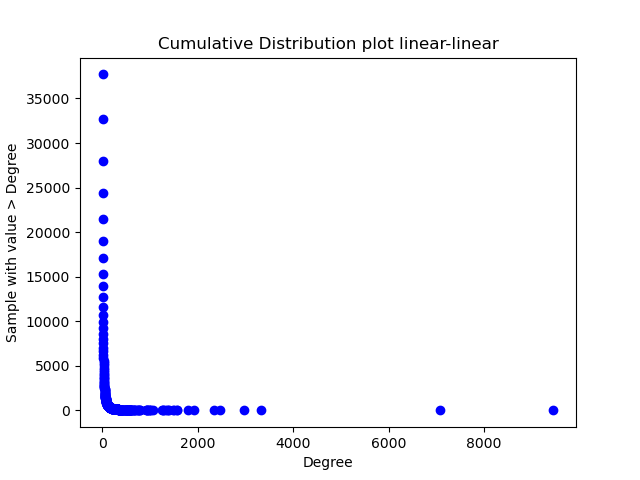
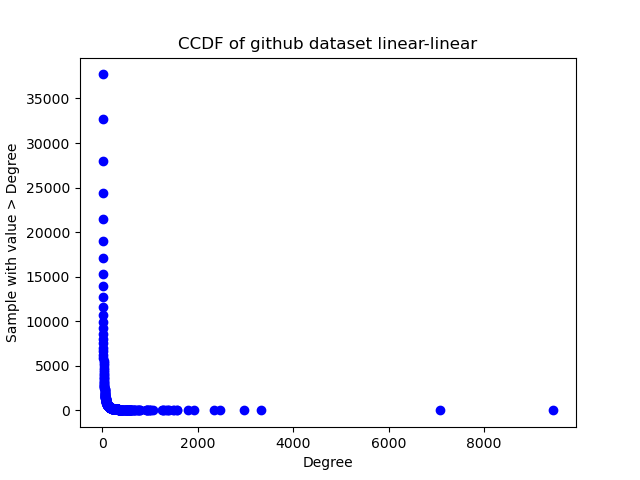
update problem 1 question c

Changed region(s): [[0.25, 0.0625, 0.7812, 0.125]]

diff --git a/problem1.py b/problem1.py
@@ -41,12 +41,14 @@ def load_graph(data):
 
 def question_a():
     for key in data:
+
         deg, cs = load_graph(data[key])
+
         # plt.loglog(deg, cs, 'bo')
         plt.plot(deg, cs, 'bo')
         plt.xscale('log')
         plt.yscale('log')
-        plt.title("Cumulative Distribution plot log-log")
+        plt.title("CCDF of " + key + " dataset log-log")
         plt.ylabel("Sample with value > Degree")
         plt.xlabel("Degree")
         # plt.show()
@@ -56,7 +58,7 @@ def question_a():
         # plt.semilogy(deg, cs, 'bo')
         plt.plot(deg, cs, 'bo')
         plt.xscale('log')
-        plt.title("Cumulative Distribution plot semi-log")
+        plt.title("CCDF of " + key + " dataset semi-log")
         plt.ylabel("Sample with value > Degree")
         plt.xlabel("Degree")
         # plt.show()
@@ -66,7 +68,7 @@ def question_a():
         plt.plot(deg, cs, 'bo')
         plt.xscale('linear')
         plt.yscale('linear')
-        plt.title("Cumulative Distribution plot linear-linear")
+        plt.title("CCDF of " + key + " dataset linear-linear")
         plt.ylabel("Sample with value > Degree")
         plt.xlabel("Degree")
         # plt.show()
@@ -77,6 +79,8 @@ def question_b():
     for key in data:
         print("Parsing data from: " + key)
         g = nx.from_pandas_edgelist(data[key], "start_node", "end_node")
+        print("Total number of nodes in graph: " + str(g.number_of_nodes()))
+        print("Total number of edges in graph: " + str(g.number_of_edges()))
 
         print("Start calculating eigen centrality for " + key + " dataset")
         tic = time.perf_counter()
@@ -92,7 +96,7 @@ def question_b():
 
         print("Start calculating betweenness centrality for " + key + " dataset")
         tic = time.perf_counter()
-        # betweennessCentrality = nx.betweenness_centrality(g)
+        betweennessCentrality = nx.betweenness_centrality(g)
         toc = time.perf_counter()
         print(f"Calculate betweenness centrality in {toc - tic:0.4f} seconds\n")
 
@@ -104,7 +108,7 @@ def question_b():
 
         sorted((v, f"{c:0.2f}") for v, c in eigenCentrality.items())
         sorted((v, f"{c:0.2f}") for v, c in pageRankCentrality.items())
-        # sorted((v, f"{c:0.2f}") for v, c in betweennessCentrality.items())
+        sorted((v, f"{c:0.2f}") for v, c in betweennessCentrality.items())
         sorted((v, f"{c:0.2f}") for v, c in closenessCentrality.items())
 
         f = open("output/" + key + "_eigen_centrality.txt", "w")
@@ -116,8 +120,8 @@ def question_b():
         f.close()
 
         f = open("output/" + key + "_betweenness_centrality.txt",  "w")
-        # f.write(json.dumps(betweennessCentrality))
-        f.write('Hello world!')
+        f.write(json.dumps(betweennessCentrality))
+        # f.write('Hello world!')
         f.close()
 
         f = open("output/" + key + "_closeness_centrality.txt", "w")
@@ -126,4 +130,12 @@ def question_b():
 
         print('------------------------------------------------\n')
 
+def question_c():
+    for key in data:
+        g = nx.from_pandas_edgelist(data[key], "start_node", "end_node")
+        connectivity = nx.algebraic_connectivity(g)
+        print("For " + key + " dataset, the connectivity is: " + str(connectivity))
+
+# question_a()
 question_b()
+# question_c()
